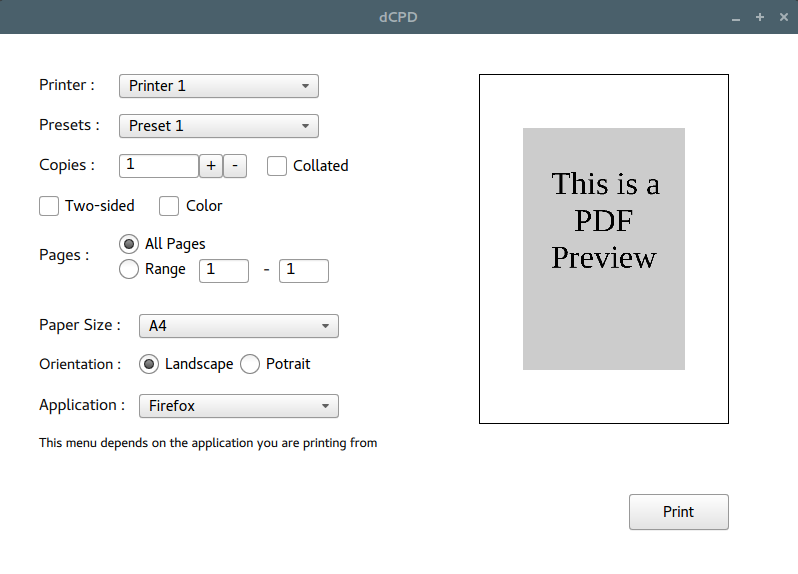
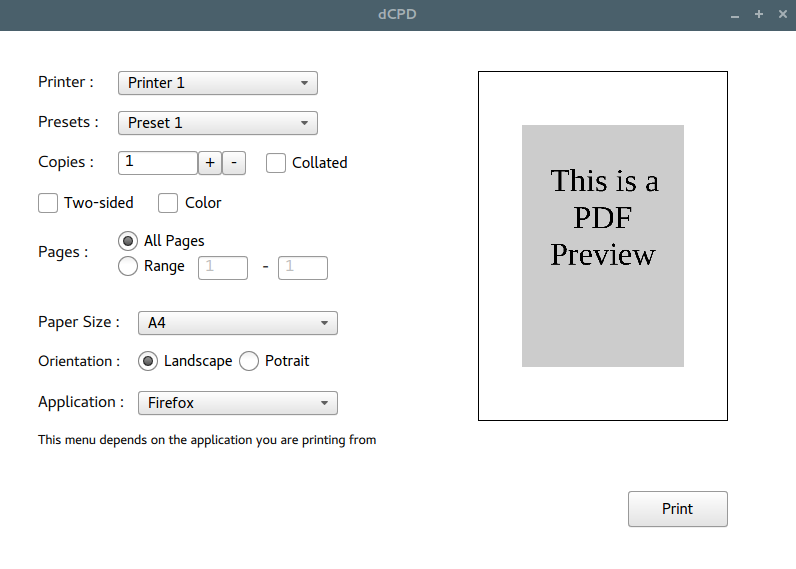
A small feature fix

diff --git a/main.qml b/main.qml
@@ -155,7 +155,7 @@ Rectangle {
         width: 50
         height: 24
         font.pointSize: 12
-
+        enabled: range_pages_button.checked ? true : false
         onTextChanged: {
             if(range_left.text != '')
                 value = range_left.text
@@ -180,7 +180,7 @@ Rectangle {
         width: 50
         height: 24
         font.pointSize: 12
-
+        enabled: range_pages_button.checked ? true : false
         onTextChanged: {
             if(range_right.text != '')
                 value = range_right.text
